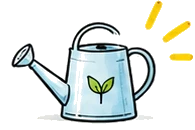
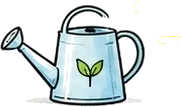
Inner World: new learning 2 illustration, home opens with See the child whole, sensory activities intro, world cards match landing page
Claude-Session: https://claude.ai/code/session_01Hm2Cz1cRUBGhVgBwcQTbGQ

diff --git a/inner-world.html b/inner-world.html
@@ -33,6 +33,8 @@
 .idea img{width:84px;height:auto}
 .all-src{text-align:center;margin:48px 0 0;font-weight:600}
 .all-src a{color:var(--w);text-decoration:underline;text-underline-offset:3px}
+.whole.first{margin-top:0;padding-top:0;border-top:0}
+.whole.first .w-label{margin-bottom:4px}
 .handoff::after{content:"↓";display:block;font-size:30px;margin-top:6px}
 @media (max-width:760px){.g-pair{grid-template-columns:1fr;gap:18px}.g-pair>div+div{border-left:0;border-top:2px dashed var(--w-soft);padding-top:18px}.gardener{padding:26px 20px 20px}}
 </style>
@@ -148,7 +150,7 @@
                 </ul></details>
               </div>
               <div class="side">
-                <img src="img/inner-senses.webp" width="234" height="289" alt="Line drawing of a child with eyes closed, smelling the air, with a strawberry, herbs, a carrot, and seeds below." style="width:220px">
+                <img src="img/inner-worldshapes.webp" width="1000" height="672" alt="Watercolor of a joyful child with arms wide open, surrounded by the things that shape her: sunshine, trees and mountains, music, books, a handprint, a bike, a rocket, and a hug from her mother.">
               </div>
             </div>
           </div>
@@ -182,7 +184,7 @@
         <p class="g-intro">Developmental psychologist Alison Gopnik offers a simple and powerful way to think about our role as parents.</p>
         <div class="g-pair">
           <div><img src="img/inner-carpenter.webp" width="148" height="115" alt="" aria-hidden="true"><h4>The carpenter</h4><p>tries to shape a child toward a predefined result.</p></div>
-          <div><img src="img/inner-gardener.webp" width="195" height="130" alt="" aria-hidden="true"><h4>The gardener</h4><p>creates the conditions for a child to grow, explore, and discover, without knowing exactly what they will become.</p></div>
+          <div><img src="img/inner-gardener.webp" width="181" height="107" alt="" aria-hidden="true"><h4>The gardener</h4><p>creates the conditions for a child to grow, explore, and discover, without knowing exactly what they will become.</p></div>
         </div>
         <p class="g-note">Her research shows that young children learn like little scientists: they explore, experiment, and test how the world works. They don’t need a blueprint. They need a safe, rich place to explore, and people nearby to come back to.</p>
         <div class="g-remember"><span>The wonderful thing to remember:</span> We don’t need to shape every connection or direct every discovery. We can give children a rich world to explore, people to connect with, and room to grow in their own way.</div>
@@ -325,22 +327,11 @@
   </section>
 
   <section class="w-sec" id="home">
-    <div class="wrap two">
-      <div class="prose">
-        <div class="w-label">What it changed at home</div>
-        <h2 class="big">Which made me more intentional with our variety of foods</h2>
-        <p>This changes the way I think about our meals.</p>
-        <p>Of course, I want my children to get the protein, healthy fats, vitamins, and minerals their growing bodies need. But now I’m also thinking about the tiny community living inside them.</p>
-        <p>So I’m also adding whole grains, fruits, vegetables, and legumes, mixing up our sources of fiber and prebiotics. More berries and colorful plants for their polyphenols, beans and potatoes for resistant starch, and yogurt with live cultures.</p>
-        <p>It’s not about finding the perfect food or getting every nutrient into every meal. It’s about bringing more variety to the table, experimenting with ingredients, and making food a little more adventurous.</p>
-        <p class="pull">I’m not just feeding my children. I’m also nourishing a whole little world inside them, and observing what works for their bellies and what doesn’t.</p>
-      </div>
-      <img src="img/inner-table.webp" width="1000" height="569" alt="Watercolor of a table set with bowls of berries, oats, lentils, citrus, and herbs.">
-    </div>
-    <div class="wrap whole">
+    <div class="wrap whole first">
       <img src="img/inner-wholechild.webp" width="800" height="713" alt="Line drawing of a smiling child with arms wide open, circled by the things they connect with: nature, air, rest, movement, water, animals, food, and family and friends.">
       <div>
-        <h3>See the child whole</h3>
+        <div class="w-label">What it changed at home</div>
+        <h2 class="big">See the child whole</h2>
         <p>Learning about the developing brain changed how I see my role. Like Gopnik’s gardener, I don’t need to shape every connection in my children’s brains. What I can do is create the conditions for them to grow, explore, and discover: time to play, people who talk and listen, and a world rich enough to keep them curious. Then trust them to do the rest.</p>
         <p>Learning about the microbiome changed the way I think about creating a nurturing environment for children. Together, they helped me see the child as a whole and pay attention to everything they connect with. So I began asking broader questions:</p>
         <ul class="questions">
@@ -362,7 +353,7 @@
           <img class="ex-blob" src="img/leaf-blob.webp" width="277" height="213" alt="" aria-hidden="true">
           <div class="ex-kicker">Fun activities</div>
           <h2>Now, let’s brainstorm ideas to nurture our children’s inner world and make it part of our family life.</h2>
-          <p class="ex-sub">Grab an apron, a spoon, and a big appetite for questions. Today the kitchen becomes a tasting lab, a weather station, and a map to faraway places.</p>
+          <p class="ex-sub">Our senses are how the world gets in. Every new smell, taste, texture, and sound sends fresh signals to a growing brain, and every new plant on the plate brings fresh fuel to the tiny world in their belly. Grab an apron and a big appetite for questions!</p>
         </div>
         <img class="ex-bug" src="img/ladybug.webp" width="199" height="127" alt="" aria-hidden="true">
       </div>
@@ -574,23 +565,23 @@
       <div class="links">
         <a class="link living" href="living-world.html" style="--c:var(--living)">
           <img src="img/living.webp" width="327" height="349" alt="">
-          <div><h4>The Living World</h4><p>Contact with soil, plants, and animals shapes the microbes children carry inside.</p></div>
+          <div><h4>The Living World</h4><p>Soil, plants, animals, water, and weather. <i>We are part of it.</i></p></div>
         </a>
         <a class="link moving" href="moving-world.html" style="--c:var(--moving)">
           <img src="img/moving.webp" width="328" height="349" alt="">
-          <div><h4>The Moving World</h4><p>Time outside to run, climb, and play brings children into contact with a richer world.</p></div>
+          <div><h4>The Moving World</h4><p>Running, climbing, balancing, building, and falling. <i>The body learns by exploring the world.</i></p></div>
         </a>
         <a class="link imagined" href="imagined-world.html" style="--c:var(--imagined)">
           <img src="img/imagined.webp" width="358" height="349" alt="">
-          <div><h4>The Imagined World</h4><p>Invent a family flavor and give it a name. The kitchen is a wonderful place to pretend.</p></div>
+          <div><h4>The Imagined World</h4><p>Play, stories, and possibilities. <i>What else could this become?</i></p></div>
         </a>
         <div class="link wondering" style="--c:var(--wondering)">
           <img src="img/wondering.webp" width="277" height="349" alt="">
-          <div><h4>The Wondering World</h4><p>Where does this spice grow? Why does a lemon make your face scrunch? Every taste is a question.</p><span class="soon">Opening soon</span></div>
+          <div><h4>The Wondering World</h4><p>Questions, attention, and discovery.</p><span class="soon">Opening soon</span></div>
         </div>
         <div class="link social" style="--c:var(--social)">
           <img src="img/social.webp" width="359" height="349" alt="">
-          <div><h4>The Social World</h4><p>People who live together share parts of their microbial communities.</p><span class="soon">Opening soon</span></div>
+          <div><h4>The Social World</h4><p>Affection, love, friendship, laughter, family, and community.</p><span class="soon">Opening soon</span></div>
         </div>
       </div>
       <div class="next">
